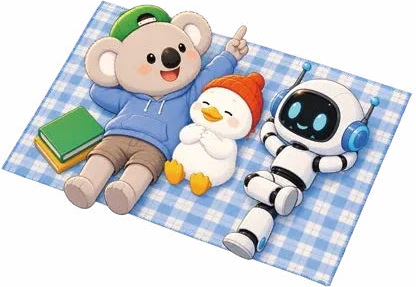
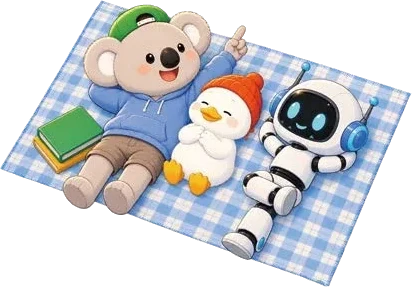
Add files via upload

diff --git a/index.html b/index.html
@@ -90,6 +90,9 @@ button:disabled{opacity:.45;cursor:default}
 .canvasWrap{background:#fff;border:2px solid var(--line);border-radius:14px;overflow:hidden;touch-action:none;width:100%;max-width:720px;margin:0 auto;aspect-ratio:4/3}
 .canvasWrap canvas{width:100%;height:100%;display:block;touch-action:none}
 .tools{display:flex;gap:8px;flex-wrap:wrap;justify-content:center}
+.palette{display:grid;grid-template-columns:repeat(12,minmax(0,1fr));gap:6px;width:100%;max-width:600px;margin:0 auto}
+.palette .sw{width:100%;height:auto;aspect-ratio:1}
+.sw.white{outline:1px solid #bbb;outline-offset:-4px}
 .sw{width:40px;height:40px;border-radius:50%;border:3px solid transparent;padding:0}
 .sw.sel{border-color:var(--ink)}
 .tool{padding:8px 14px;font-size:1rem}
@@ -196,6 +199,24 @@ button.ghost{background:var(--card);border:2px solid var(--line)}
 textarea#w1,textarea#w2{min-height:150px;line-height:1.6}
 .notice{background:#FFF4D6;border:2px dashed var(--sun-dark);border-radius:16px;padding:12px 16px;color:var(--ink)}
 .tvhint{background:var(--card);color:var(--soft);font-size:.88rem;padding:6px 12px;border-radius:999px}
+
+.stage{display:flex;flex-direction:column;gap:14px;min-height:260px;padding:6px 2px}
+.stagehint{display:flex;flex-direction:column;align-items:center;gap:6px;color:var(--soft);margin:auto}
+.stagehint .mascot{width:min(170px,40%)}
+.bub{display:flex;flex-direction:column;gap:6px;align-items:center}
+.bub.first{align-self:center;background:var(--sun);border-radius:22px;padding:12px 28px;box-shadow:0 4px 0 var(--sun-dark);font-family:var(--display);font-size:clamp(1.6rem,3.4vw,2.4rem);text-align:center}
+.bub.first small{display:block;font-family:var(--body);font-size:.9rem;color:var(--wood-dark)}
+.bub .who{font-size:.95rem;color:var(--soft);font-family:var(--display)}
+.bub .say{position:relative;background:#fff;border:3px solid var(--line);border-radius:22px;padding:14px 28px;font-family:var(--display);font-size:clamp(1.6rem,3.4vw,2.4rem)}
+.bub .say::after{content:"";position:absolute;left:50%;top:-14px;margin-left:-10px;border:10px solid transparent;border-bottom-color:var(--line)}
+.bub .shot{max-width:520px}
+.pop{animation:popin .55s cubic-bezier(.2,1.5,.4,1) both}
+@keyframes popin{from{opacity:0;transform:translateY(24px) scale(.85)}to{opacity:1;transform:none}}
+.ctl{justify-content:center}
+.result{display:flex;flex-direction:column;gap:12px;margin-top:6px;padding-top:14px;border-top:2px dashed var(--line)}
+.vs{display:flex;justify-content:center;align-items:center;gap:12px;flex-wrap:wrap;font-family:var(--display);font-size:clamp(1.3rem,2.8vw,2rem)}
+.vs span{padding:8px 18px;border-radius:999px}.vs .b1{background:var(--sun)}.vs .b2{background:#D8F2D0}.vs i{font-style:normal;color:var(--accent)}
+@media (prefers-reduced-motion:reduce){.pop{animation:none}}
 </style>
 </head>
 <body>
@@ -282,14 +303,15 @@ function makeCanvas(wrap){
 function drawUI(container){
   const wrap=h('<div class="canvasWrap"></div>');
   const pad=makeCanvas(wrap);
-  const colors=['#2B2A33','#D9463B','#3C6FD8','#2F9E62','#F2B705','#8B5A2B','#E86FA8'];
-  const tools=h('<div class="tools"></div>');
-  colors.forEach((c,i)=>{const b=h(`<button class="sw${i===0?' sel':''}" aria-label="색 ${i+1}" style="background:${c}"></button>`);b.onclick=()=>{pad.setColor(c);tools.querySelectorAll('.sw,.tool.er').forEach(x=>x.classList.remove('sel'));b.classList.add('sel')};tools.appendChild(b)});
+  const colors=[['검정','#222222'],['회색','#8E8E8E'],['흰색','#FFFFFF'],['빨강','#E53935'],['다홍','#FF6F4F'],['주황','#FB8C00'],['노랑','#FDD835'],['연노랑','#FFF59D'],['연두','#9CCC65'],['초록','#2E9E4F'],['진초록','#1B5E20'],['청록','#00897B'],
+    ['하늘','#5EC8F2'],['파랑','#1E63D6'],['남색','#26327A'],['연보라','#B39DDB'],['보라','#7B1FA2'],['자주','#B0186A'],['분홍','#F48FB1'],['살구','#FFD3B0'],['진한 살구','#E9A979'],['황토','#C99A3B'],['갈색','#8D5524'],['고동','#4E2E14']];
+  const pal=h('<div class="palette"></div>'),tools=h('<div class="tools"></div>');
+  colors.forEach(([n,c],i)=>{const b=h(`<button class="sw${i===0?' sel':''}${c==='#FFFFFF'?' white':''}" aria-label="${n}" title="${n}" style="background:${c}"></button>`);b.onclick=()=>{pad.setColor(c);pal.querySelectorAll('.sw').forEach(x=>x.classList.remove('sel'));tools.querySelectorAll('.tool.er').forEach(x=>x.classList.remove('sel'));b.classList.add('sel')};pal.appendChild(b)});
   [['가늘게',4],['보통',8],['굵게',16]].forEach(([t,s])=>{const b=h(`<button class="tool sz${s===8?' sel':''}">${t}</button>`);b.onclick=()=>{pad.setSize(s);tools.querySelectorAll('.sz').forEach(x=>x.classList.remove('sel'));b.classList.add('sel')};tools.appendChild(b)});
-  const er=h('<button class="tool er">지우개</button>');er.onclick=()=>{pad.setEraser();tools.querySelectorAll('.sw').forEach(x=>x.classList.remove('sel'));er.classList.add('sel')};tools.appendChild(er);
+  const er=h('<button class="tool er">지우개</button>');er.onclick=()=>{pad.setEraser();pal.querySelectorAll('.sw').forEach(x=>x.classList.remove('sel'));er.classList.add('sel')};tools.appendChild(er);
   const un=h('<button class="tool">되돌리기</button>');un.onclick=()=>pad.undo();tools.appendChild(un);
   const cl=h('<button class="tool">전부 지우기</button>');cl.onclick=()=>pad.clear();tools.appendChild(cl);
-  container.appendChild(wrap);container.appendChild(tools);
+  container.appendChild(wrap);container.appendChild(pal);container.appendChild(tools);
   return pad;
 }
 function shotHTML(step){
@@ -362,7 +384,7 @@ function teacher(code){
   function bindRound(r){if(boundRound===r)return;boundRound=r;[unMeta,unDone,unMatch,unQa].forEach(f=>f&&f());
     unMeta=S.on(`${R(code)}/rounds/${r}/meta`,v=>{T.meta[r]=v||{};});
     unDone=S.on(`${R(code)}/rounds/${r}/done`,v=>{T.done[r]=v||{};updatePlay()});
-    unMatch=S.on(`${R(code)}/rounds/${r}/match`,v=>{T.match[r]=v||{};if(T.state&&T.state.phase==='album')renderAlbumBody()});
+    unMatch=S.on(`${R(code)}/rounds/${r}/match`,v=>{T.match[r]=v||{};if(T.state&&T.state.phase==='album'&&T.album&&T.album.refreshMarks)T.album.refreshMarks()});
     unQa=S.on(`${R(code)}/rounds/${r}/qa`,v=>{T.qa=T.qa||{};T.qa[r]=v||{}});}
   function render(){
     const st=T.state;if(!st)return;
@@ -511,27 +533,51 @@ function teacher(code){
     document.getElementById('del').onclick=()=>delRoom();
     renderAlbumBody();
   }
+  function albumItems(r,id){const ch=T.meta[r][id],steps=(T.steps[r]||{})[id]||{},qa=(T.qa&&T.qa[r])||{};
+    const it=[{first:true,text:ch.start,label:'처음 제시어'}];
+    for(let s=0;s<ch.L;s++)it.push({kind:stepType(s),step:steps[s],who:nameOf(workerOf(ch,s)),qa:qa[`${id}_${s}`]});return it}
+  const ownerOf=ch=>nameOf(workerOf(ch,0));
+  function bubbleHTML(x){
+    if(x.first)return `<div class="bub first"><small>${esc(x.label)}</small><div>${esc(x.text||'(빈칸)')}</div></div>`;
+    const qa=x.qa&&x.qa.q?`<div class="qa"><div class="q">질문: ${esc(x.qa.q)}</div><div class="a">${x.qa.a?'대답: '+esc(x.qa.a):'(대답 못 받음)'}</div></div>`:'';
+    const body=x.kind==='draw'?(x.step&&x.step.img?`<img class="shot" alt="${esc(x.who)}의 그림" src="${x.step.img}">`:'<div class="shot ph">(시간 안에 못 그렸어요)</div>')
+      :`<div class="say">${esc(x.step&&x.step.text||'(빈칸)')}</div>`;
+    return `<div class="bub ${x.kind}"><span class="who">${esc(x.who)} ${x.kind==='draw'?'그림':'단어'}</span>${qa}${body}</div>`;
+  }
   function renderAlbumBody(){
     const box=document.getElementById('ab');if(!box)return;const r=T.state.round;const meta=T.meta[r]||{};
+    if(T.album.timer){clearInterval(T.album.timer);T.album.timer=null}
+    T.album.played=T.album.played||{};
     const ids=Object.keys(meta).filter(id=>meta[id].group===T.album.g).sort((a,b)=>meta[a].c-meta[b].c);
     if(T.album.chain==null||!ids.includes(T.album.chain)){T.album.chain=ids[0];T.album.reveal=0}
-    const ch=meta[T.album.chain],steps=T.steps[r][T.album.chain]||{},qa=(T.qa&&T.qa[r])||{};
-    const m=autoMatch(r,T.album.chain);
-    let html=`<div class="card stack"><div class="tabs">${ids.map(id=>{const mm=autoMatch(r,id);return `<button data-c="${id}" class="${id===T.album.chain?'sel':''}">${esc(meta[id].start)} ${mm===true?'○':mm===false?'×':''}</button>`}).join('')}</div>
-      <div class="album">
-      <div class="prompt"><small>처음 제시어</small>${esc(ch.start)}</div>`;
-    for(let s=0;s<ch.L&&s<T.album.reveal;s++){const st=steps[s],w=workerOf(ch,s),q=qa[`${T.album.chain}_${s}`];
-      html+=`<div class="step"><span class="who">${s+1}단계 · ${esc(nameOf(w))} ${stepType(s)==='draw'?'그림':'단어'}</span>${q&&q.q?`<div class="qa"><div class="q">질문: ${esc(q.q)}</div><div class="a">${q.a?'대답: '+esc(q.a):'(대답 못 받음)'}</div></div>`:''}${shotHTML(st)}</div>`}
-    const fin=T.album.reveal>=ch.L;
-    html+=`</div><div class="row" style="justify-content:center">${fin?'':`<button class="main big" id="rv">다음 장 보기 (${T.album.reveal}/${ch.L})</button>`}${fin?`<button class="ghost" id="rva">처음부터</button>`:`<button class="ghost" id="rvall">전부 보기</button>`}</div>`;
-    if(fin)html+=`<div class="row" style="justify-content:center"><span>처음과 마지막이</span><button class="match yes" id="my">일치 ${m===true?'✓':''}</button><button class="match no" id="mn">불일치 ${m===false?'✓':''}</button></div>
-      <p class="center muted" style="margin:0">어떤 정보가 빠졌거나 달라졌나요? 더 정확하게 전하려면 무엇을 덧붙이면 좋을까요?</p>`;
-    html+='</div>';box.innerHTML=html;
-    box.querySelectorAll('[data-c]').forEach(b=>b.onclick=()=>{T.album.chain=b.dataset.c;T.album.reveal=0;renderAlbumBody()});
-    const rv=document.getElementById('rv');if(rv)rv.onclick=()=>{T.album.reveal++;renderAlbumBody()};
-    const ra=document.getElementById('rvall');if(ra)ra.onclick=()=>{T.album.reveal=ch.L;renderAlbumBody()};
-    const r0=document.getElementById('rva');if(r0)r0.onclick=()=>{T.album.reveal=0;renderAlbumBody()};
-    const my=document.getElementById('my');if(my){my.onclick=()=>S.set(`${R(code)}/rounds/${r}/match/${T.album.chain}`,true);document.getElementById('mn').onclick=()=>S.set(`${R(code)}/rounds/${r}/match/${T.album.chain}`,false)}
+    const id=T.album.chain,ch=meta[id],items=albumItems(r,id);
+    box.innerHTML=`<div class="card stack">
+      <div class="tabs" id="ct">${ids.map(x=>`<button data-c="${x}" class="${x===id?'sel':''}">${esc(ownerOf(meta[x]))}의 앨범${T.album.played[x]?' ✓':''}</button>`).join('')}</div>
+      <div class="stage" id="stage"></div>
+      <div id="res"></div></div>`;
+    const stage=document.getElementById('stage');
+    stage.innerHTML=items.map(bubbleHTML).join('');T.album.played[id]=true;
+    function finish(){
+      const m=autoMatch(r,id);const last=items[items.length-1];
+      const lastTxt=last.kind==='word'?(last.step&&last.step.text||'(빈칸)'):'(그림)';
+      document.getElementById('res').innerHTML=`<div class="result pop">
+        <div class="vs"><span class="b1">${esc(items[0].text||'')}</span><i>➜</i><span class="b2">${esc(lastTxt)}</span></div>
+        <div class="row" style="justify-content:center"><span>처음과 마지막이</span><button class="match yes" id="my">일치 <span id="mky">${m===true?'✓':''}</span></button><button class="match no" id="mn">불일치 <span id="mkn">${m===false?'✓':''}</span></button></div>
+        <p class="center muted" style="margin:0">어떤 정보가 빠졌거나 달라졌나요? 더 정확하게 전하려면 무엇을 덧붙이면 좋을까요?</p>
+        <div class="row" style="justify-content:center"><button class="main" id="nextc">다음 친구 앨범 ▶</button></div></div>`;
+      document.getElementById('my').onclick=()=>S.set(`${R(code)}/rounds/${r}/match/${id}`,true);
+      document.getElementById('mn').onclick=()=>S.set(`${R(code)}/rounds/${r}/match/${id}`,false);
+      document.getElementById('nextc').onclick=()=>{const i=ids.indexOf(id);
+        if(i<ids.length-1){T.album.chain=ids[i+1];T.album.reveal=0;renderAlbumBody();toTop()}
+        else{const gs=[...document.querySelectorAll('#gt button')].map(b=>+b.dataset.g);const gi=gs.indexOf(T.album.g);
+          if(gi<gs.length-1){T.album.g=gs[gi+1];T.album.chain=null;document.querySelectorAll('#gt button').forEach(x=>x.classList.toggle('sel',+x.dataset.g===T.album.g));renderAlbumBody();toTop()}
+          else document.getElementById('nextc').textContent='모든 앨범을 봤어요!'}};
+      const t=document.querySelector(`#ct [data-c="${id}"]`);if(t&&!t.textContent.includes('✓'))t.textContent+=' ✓';
+    }
+    finish();
+    T.album.refreshMarks=()=>{const m=autoMatch(r,id);const a=document.getElementById('mky'),b=document.getElementById('mkn');if(a){a.textContent=m===true?'✓':'';b.textContent=m===false?'✓':''}};
+    function toTop(){requestAnimationFrame(()=>{const c=document.getElementById('ct');if(c)c.scrollIntoView({behavior:'smooth',block:'start'})})}
+    document.querySelectorAll('#ct [data-c]').forEach(b=>b.onclick=()=>{T.album.chain=b.dataset.c;T.album.reveal=0;renderAlbumBody()});
   }
   async function showCompare(){
     const rows=[];
@@ -628,15 +674,29 @@ function student(code,pid){
   }
   function timer(){const t=document.getElementById('tm');if(!t||!P.state||P.state.phase!=='play')return;const left=Math.max(0,Math.ceil((P.state.deadline-now())/1000));t.textContent=`${left}초`;t.classList.toggle('low',left<=10)}
   async function album(){
-    clearQ();const r=P.state.round;const ids=Object.keys(P.meta).filter(id=>P.meta[id].group===me.group).sort((a,b)=>P.meta[a].c-P.meta[b].c);
-    const steps=(await S.get(`${R(code)}/rounds/${r}/steps`))||{};
-    let sel=ids[0];
-    const draw=()=>{const ch=P.meta[sel],st=steps[sel]||{};
-      $app.innerHTML=header(`<span class="pill on">${r}라운드 앨범</span><span class="pill">${me.group}모둠 · ${esc(me.name)}</span>`)+`<div class="stack"><div class="card center"><h2>선생님 화면을 함께 봐요</h2><p class="muted" style="margin:0">우리 모둠 앨범은 여기서도 볼 수 있어요.</p></div>
-      <div class="tabs">${ids.map(id=>`<button data-c="${id}" class="${id===sel?'sel':''}">${esc(P.meta[id].start)}</button>`).join('')}</div>
-      <div class="card album"><div class="prompt"><small>처음 제시어</small>${esc(ch.start)}</div>${Array.from({length:ch.L},(_,s)=>`<div class="step"><span class="who">${s+1}단계 · ${esc(nameOf(workerOf(ch,s)))}</span>${shotHTML(st[s])}</div>`).join('')}</div></div>`;
+    clearQ();const r=P.state.round;
+    const ids=Object.keys(P.meta).filter(id=>P.meta[id].group===me.group).sort((a,b)=>P.meta[a].c-P.meta[b].c);
+    const all=(await S.get(`${R(code)}/rounds/${r}/steps`))||{},qa=(await S.get(`${R(code)}/rounds/${r}/qa`))||{};
+    const played={};let sel=ids.find(id=>workerOf(P.meta[id],0)===pid)||ids[0],timer=null;
+    const itemsOf=id=>{const ch=P.meta[id],st=all[id]||{};const it=[{first:true,text:ch.start,label:'처음 제시어'}];for(let s=0;s<ch.L;s++)it.push({kind:stepType(s),step:st[s],who:nameOf(workerOf(ch,s)),qa:qa[`${id}_${s}`]});return it};
+    const bub=x=>{if(x.first)return `<div class="bub first"><small>${esc(x.label)}</small><div>${esc(x.text||'(빈칸)')}</div></div>`;
+      const q=x.qa&&x.qa.q?`<div class="qa"><div class="q">질문: ${esc(x.qa.q)}</div><div class="a">${x.qa.a?'대답: '+esc(x.qa.a):'(대답 못 받음)'}</div></div>`:'';
+      const b=x.kind==='draw'?(x.step&&x.step.img?`<img class="shot" alt="${esc(x.who)}의 그림" src="${x.step.img}">`:'<div class="shot ph">(시간 안에 못 그렸어요)</div>'):`<div class="say">${esc(x.step&&x.step.text||'(빈칸)')}</div>`;
+      return `<div class="bub ${x.kind}"><span class="who">${esc(x.who)} ${x.kind==='draw'?'그림':'단어'}</span>${q}${b}</div>`};
+    const draw=()=>{if(timer){clearInterval(timer);timer=null}
+      const items=itemsOf(sel);
+      $app.innerHTML=header(`<span class="pill on">${r}라운드 앨범</span><span class="pill">${me.group}모둠 · ${esc(me.name)}</span>`)+`<div class="card stack">
+        <div class="tabs">${ids.map(id=>`<button data-c="${id}" class="${id===sel?'sel':''}">${esc(nameOf(workerOf(P.meta[id],0)))}의 앨범${played[id]?' ✓':''}</button>`).join('')}</div>
+        <div class="stage" id="stage">${items.map(bub).join('')}</div>
+        <div id="res"></div></div>`;
+      played[sel]=true;{const last=items[items.length-1];const lt=last.kind==='word'?(last.step&&last.step.text||'(빈칸)'):'(그림)';
+        const i2=ids.indexOf(sel);
+        document.getElementById('res').innerHTML=`<div class="result"><div class="vs"><span class="b1">${esc(items[0].text||'')}</span><i>➜</i><span class="b2">${esc(lt)}</span></div>
+          <p class="center muted" style="margin:0">처음과 마지막, 같았나요? 어디서 달라졌을까요?</p>
+          ${i2<ids.length-1?'<div class="row" style="justify-content:center"><button class="main" id="nextc">다음 친구 앨범 ▶</button></div>':''}</div>`;
+        const nc=document.getElementById('nextc');if(nc)nc.onclick=()=>{sel=ids[i2+1];draw();window.scrollTo({top:0,behavior:'smooth'})}}
       document.querySelectorAll('[data-c]').forEach(b=>b.onclick=()=>{sel=b.dataset.c;draw()})};
-    if(sel)draw();
+    if(sel)draw();else $app.innerHTML=header()+`<div class="card center stack">${IMG.wave}<h2>TV 화면을 함께 봐요! 📺</h2></div>`;
   }
 }
 
